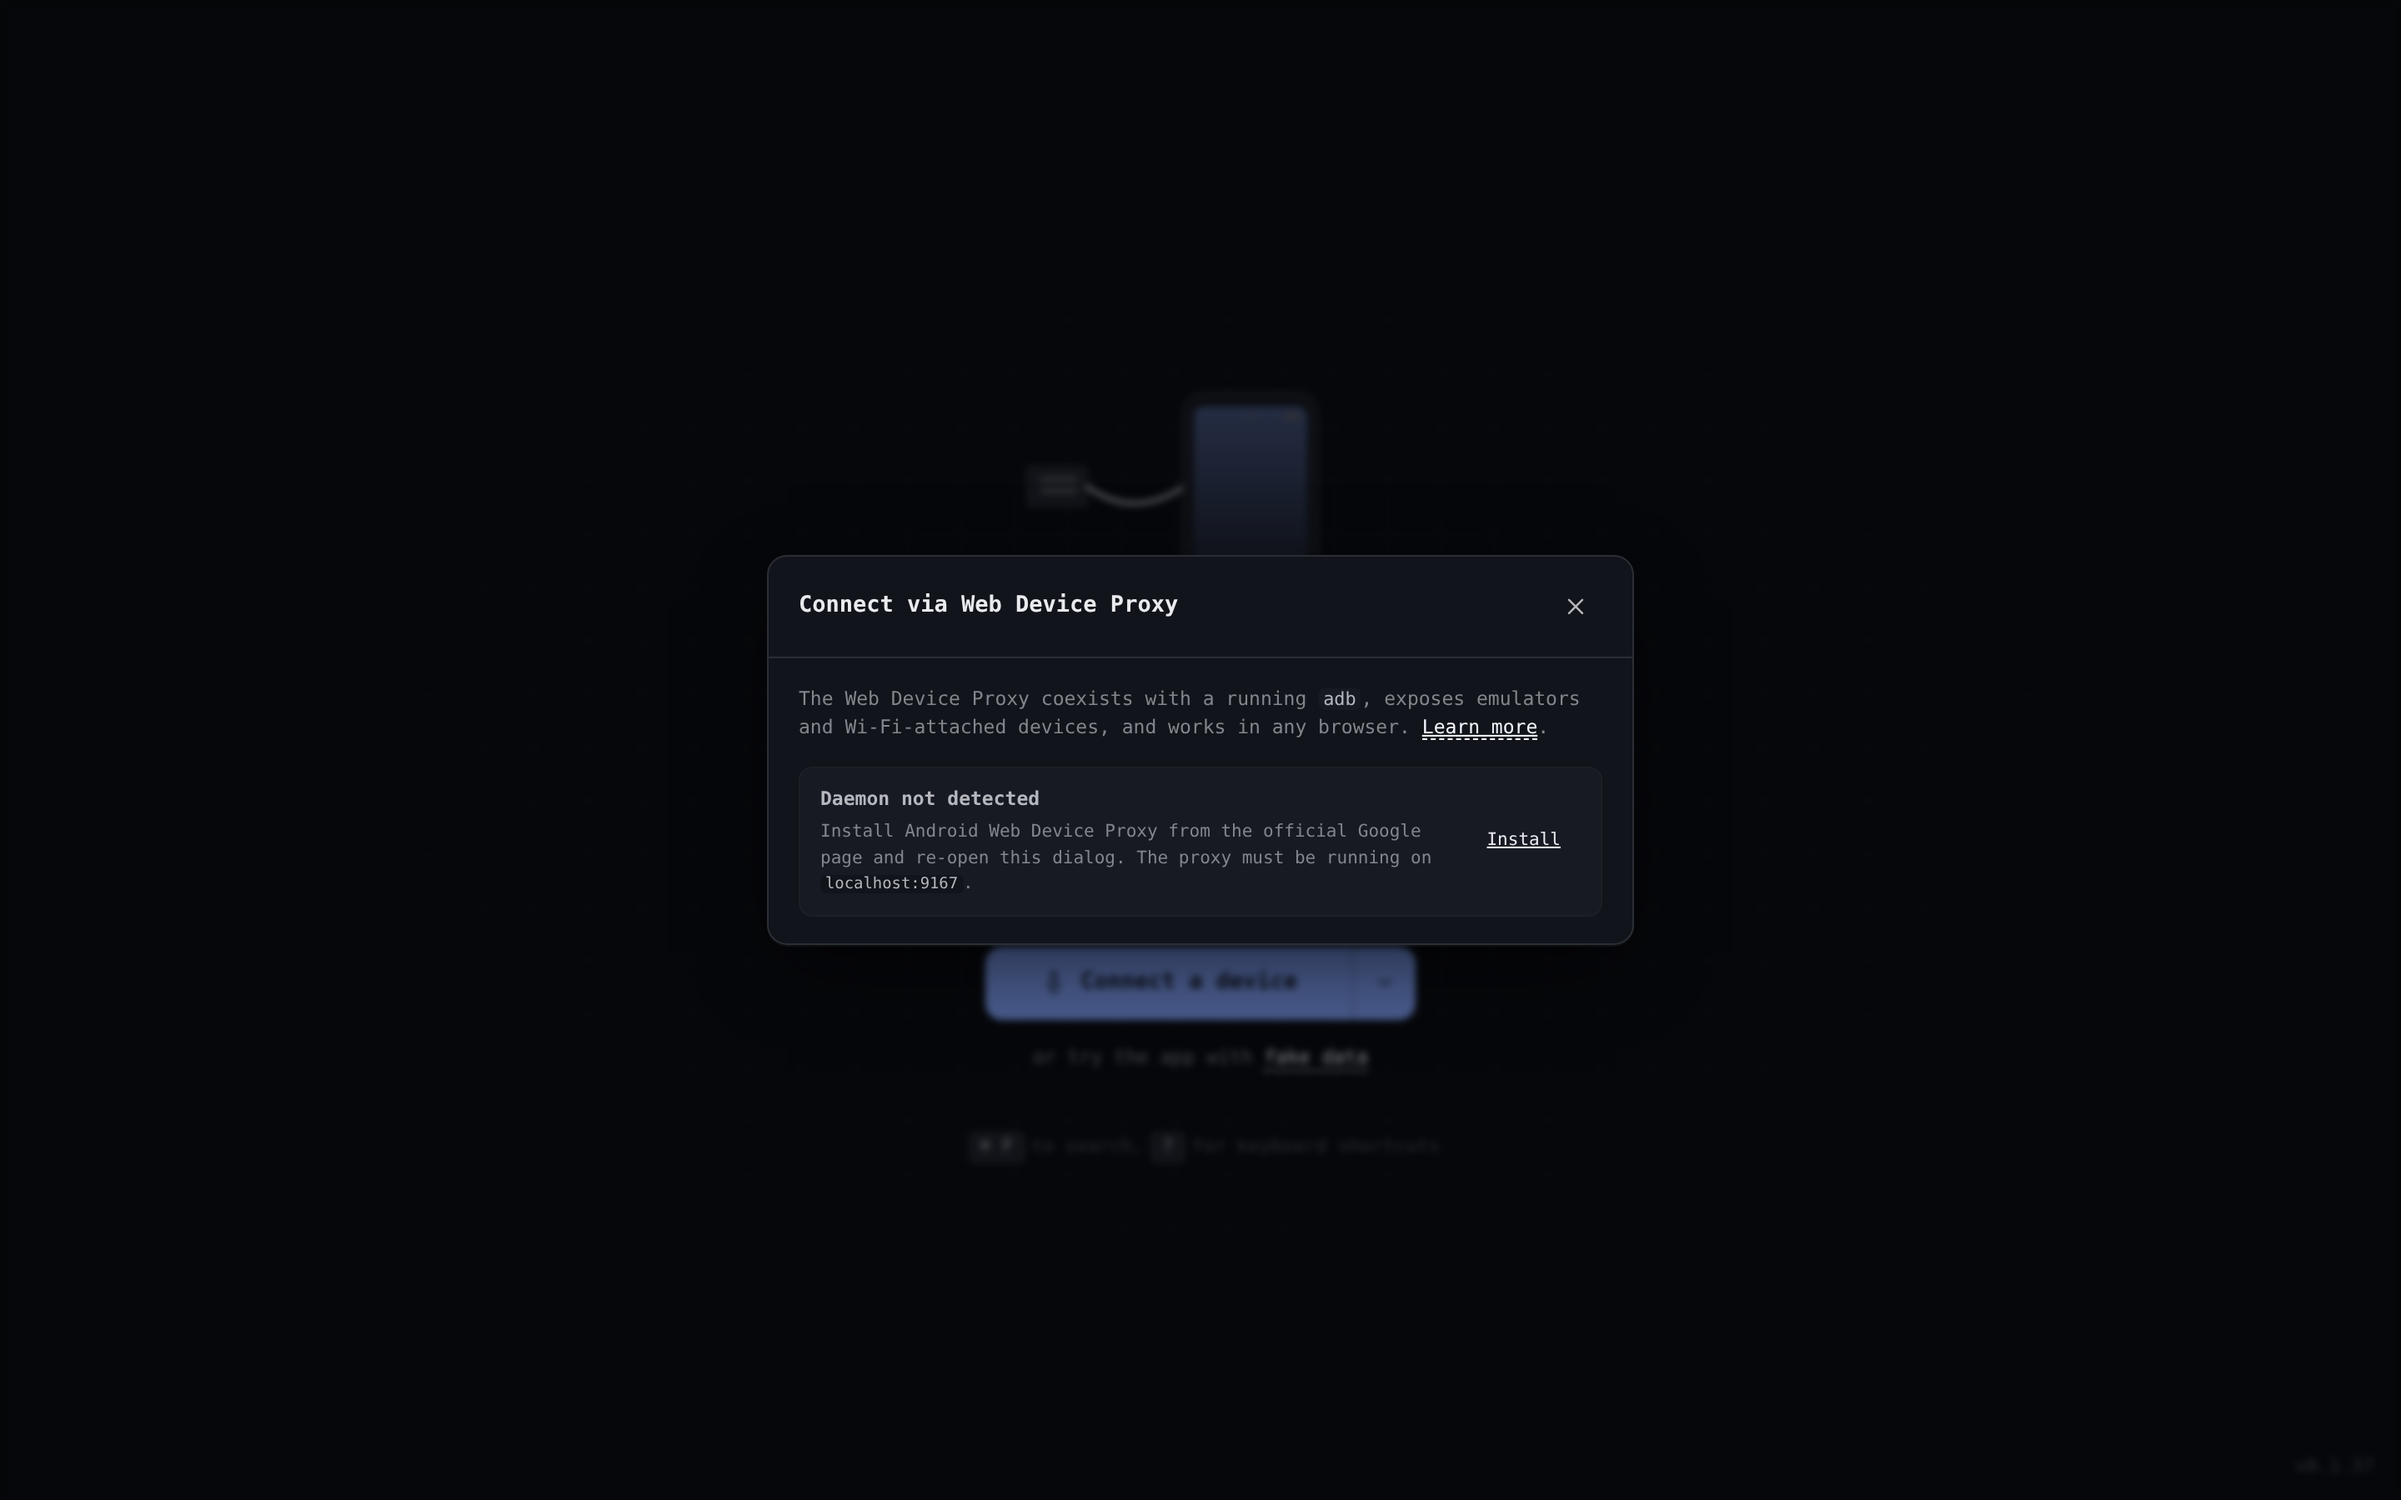
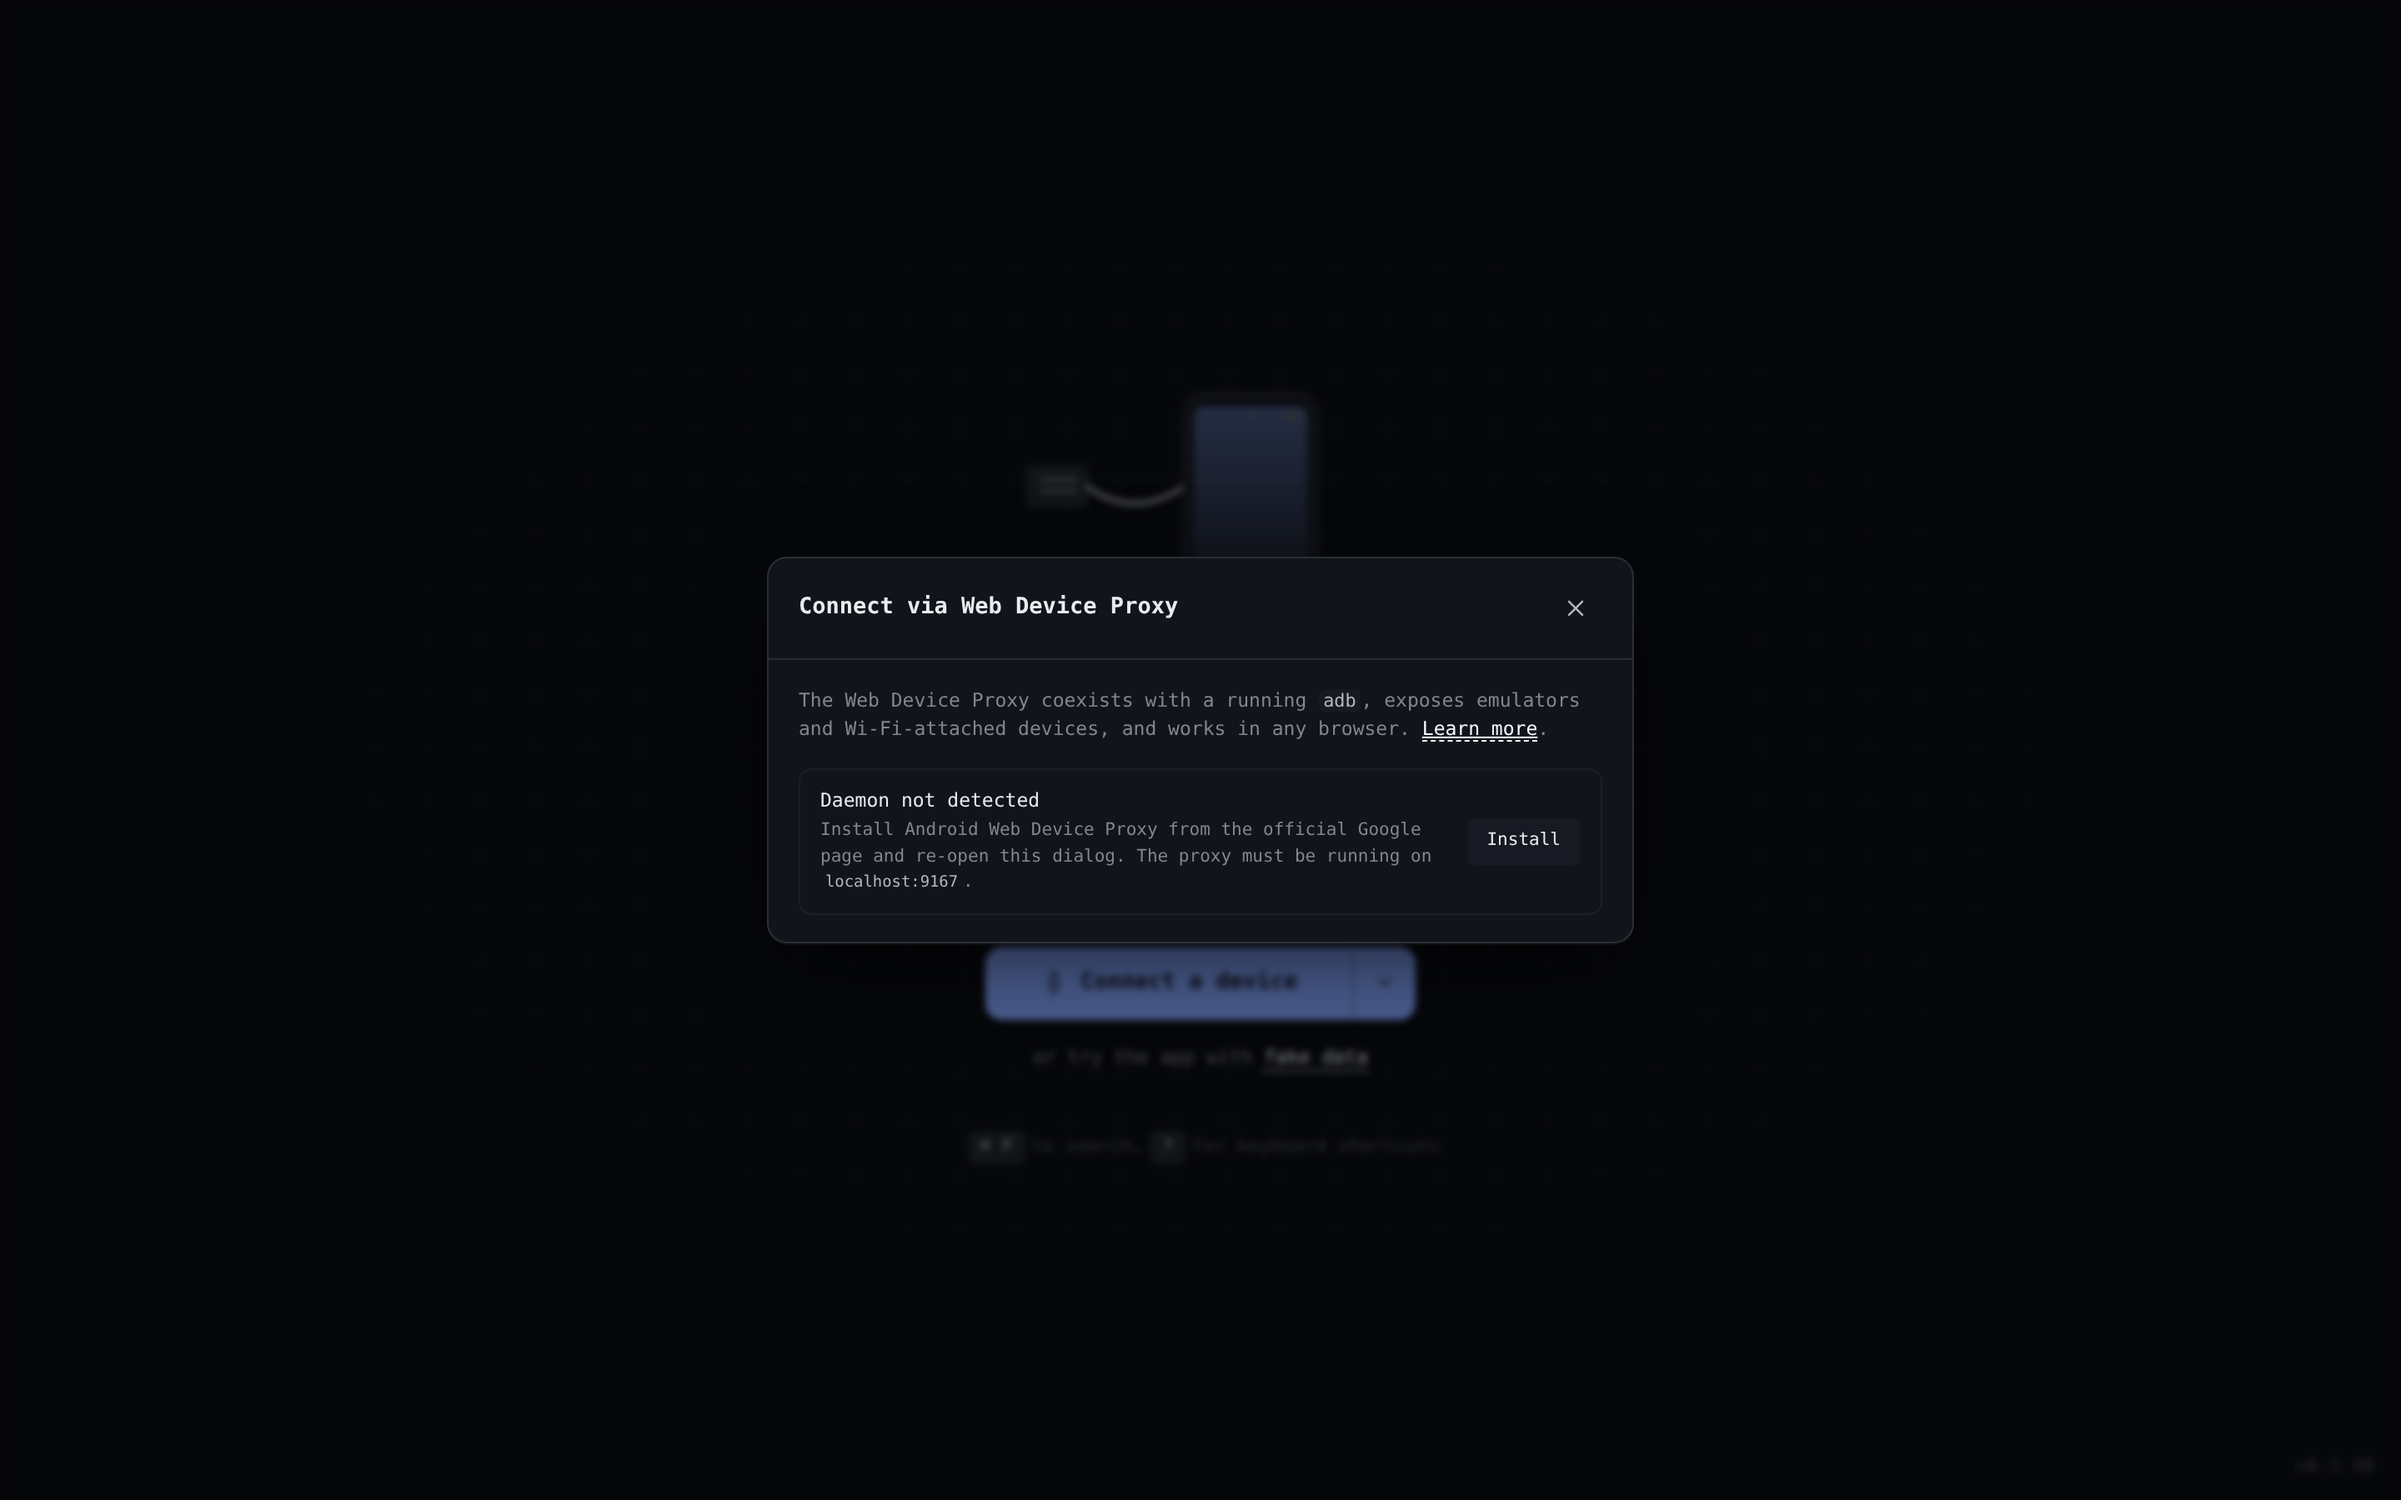
WDP dialog polish: device names, terser toast, Install button (#115)
Three follow-ups from real-device feedback:

1. **Device names show on the dialog list, not just the dashboard.**
   Some WDP daemon versions don't ship `ro.product.model` in the
   `/track-devices-json` snapshot's `adbProps`, so the row fell back
   to the bare serial. The dialog now fires a one-shot
   `shell:getprop ro.product.model` over a per-device /adb-json
   socket for any ADB-ready device missing the model, caches the
   response in component state, and re-renders. A new helper
   `lib/wdp/getProp.ts` owns the request/timeout/teardown so the
   service stream is closed immediately after the response arrives.

2. **`adb kill-server` toast trimmed + display time scaled.** The
   old WebUSB-claim message was ~250 chars and the toast auto-
   dismissed after 1800 ms — far too quick to read. The message is
   now `Device is already claimed. Try `adb kill-server` and
   reconnect.` (~60 chars), and `showToast` scales its lifetime with
   message length (70 ms/char, bounded 2.2–6 s) so longer errors stay
   long enough to read.

3. **Install button + empty card match the device-row family.** The
   empty card surface flips from `var(--bg-2)` to `var(--bg-1)` so
   it reads as the no-devices counterpart of a populated list, and
   the Install button (`.btn` at `var(--bg-2)`) now contrasts cleanly
   instead of disappearing into the same-colour container. The base
   `.btn` rule gains `text-decoration: none` so anchors styled as
[…]

Changed region(s): [[0.3438, 0.5289, 0.4375, 0.5911], [0.3438, 0.4667, 0.5, 0.4978], [0.5312, 0.4667, 0.6562, 0.4978]]

diff --git a/src/components/WdpDialog.tsx b/src/components/WdpDialog.tsx
@@ -18,6 +18,7 @@ import * as Icons from './Icons';
 import {
   WDP_DOWNLOAD_URL,
   WdpTracker,
+  fetchDeviceProp,
   openApprovePopup,
   wdpDeviceReady,
   wdpDeviceStatus,
@@ -51,6 +52,40 @@ export function WdpDialog({ open, onConnect, onClose, busy }: WdpDialogProps) {
   // once WDP flips PROXY_UNAUTHORIZED → ADB/DEVICE).
   const devicesRef = useRef<WdpDevice[]>([]);
   const approveResolveRef = useRef<((approved: boolean) => void) | null>(null);
+  // Lazy serial → model cache. Some WDP daemon versions don't ship
+  // `ro.product.model` in the snapshot's `adbProps`, so the row
+  // would fall through to the bare serial. For ADB-ready devices
+  // missing the model we fire a one-shot `getprop` over a /adb-json
+  // service stream and cache the result; rows re-render once the
+  // value arrives.
+  const [modelCache, setModelCache] = useState<Record<string, string>>({});
+  const inflightModelsRef = useRef<Set<string>>(new Set());
+
+  useEffect(() => {
+    if (state.kind !== 'connected') return;
+    const cancelled = { v: false };
+    for (const d of state.devices) {
+      if (d.proxyStatus !== 'ADB' || d.adbStatus !== 'DEVICE') continue;
+      if (d.adbProps?.['ro.product.model']) continue;
+      if (modelCache[d.serialNumber]) continue;
+      if (inflightModelsRef.current.has(d.serialNumber)) continue;
+      inflightModelsRef.current.add(d.serialNumber);
+      void fetchDeviceProp({
+        serialNumber: d.serialNumber,
+        key: 'ro.product.model',
+      })
+        .then((model) => {
+          if (cancelled.v || !model) return;
+          setModelCache((prev) => ({ ...prev, [d.serialNumber]: model }));
+        })
+        .finally(() => {
+          inflightModelsRef.current.delete(d.serialNumber);
+        });
+    }
+    return () => {
+      cancelled.v = true;
+    };
+  }, [state, modelCache]);
 
   useEffect(() => {
     if (!open) return;
@@ -244,8 +279,8 @@ export function WdpDialog({ open, onConnect, onClose, busy }: WdpDialogProps) {
                     return (
                       <li key={d.serialNumber} className="wdp-device">
                         <div className="wdp-device-meta">
-                          <div className="wdp-device-name" title={deviceLabel(d)}>
-                            {deviceLabel(d)}
+                          <div className="wdp-device-name" title={deviceLabel(d, modelCache)}>
+                            {deviceLabel(d, modelCache)}
                           </div>
                           <div className="wdp-device-sub" title={d.serialNumber}>
                             {d.serialNumber} · {wdpDeviceStatus(d)}
@@ -275,9 +310,14 @@ export function WdpDialog({ open, onConnect, onClose, busy }: WdpDialogProps) {
   );
 }
 
-function deviceLabel(d: WdpDevice): string {
+function deviceLabel(d: WdpDevice, cache: Record<string, string>): string {
   if (d.proxyStatus === 'ADB') {
-    return d.adbProps?.['ro.product.model'] ?? d.adbProps?.['ro.product.name'] ?? d.serialNumber;
+    return (
+      d.adbProps?.['ro.product.model'] ??
+      cache[d.serialNumber] ??
+      d.adbProps?.['ro.product.name'] ??
+      d.serialNumber
+    );
   }
   return d.serialNumber;
 }

diff --git a/src/lib/wdp/getProp.ts b/src/lib/wdp/getProp.ts
@@ -1,0 +1,71 @@
+// One-shot `getprop` over WDP for use in the discovery dialog.
+//
+// Opens a per-call `/adb-json` service stream against `shell:getprop
+// <key>` for a specific device serial, reads the device's response,
+// closes the socket, and returns the trimmed value. Used to fill in
+// the device-row name when the daemon's `/track-devices-json`
+// snapshot didn't include `ro.product.model` in `adbProps` (some
+// WDP daemon versions omit it).
+//
+// The function is independent of the per-device `WdpAdbTransport`
+// because the dialog doesn't have an open `Adb` session yet — the
+// devices haven't been connected to. The shell service stream is
+// closed immediately after the response arrives, so this doesn't
+// claim a long-lived resource on the device.
+
+import { openWdpAdbSocket } from './adbSocket';
+
+interface FetchPropOptions {
+  serialNumber: string;
+  key: string;
+  /** Soft cap for waiting on the response — devices that don't reply in time return null. */
+  timeoutMs?: number;
+}
+
+export async function fetchDeviceProp(opts: FetchPropOptions): Promise<string | null> {
+  const timeoutMs = opts.timeoutMs ?? 1500;
+  let socket: Awaited<ReturnType<typeof openWdpAdbSocket>> | null = null;
+  try {
+    socket = await openWdpAdbSocket({
+      serialNumber: opts.serialNumber,
+      service: `shell:getprop ${opts.key}`,
+    });
+  } catch {
+    return null;
+  }
+
+  const reader = socket.readable.getReader();
+  let buffer = '';
+  const decoder = new TextDecoder();
+
+  const settled = await Promise.race([
+    (async () => {
+      try {
+        while (true) {
+          const { done, value } = await reader.read();
+          if (done) return true;
+          if (value) buffer += decoder.decode(value, { stream: true });
+        }
+      } catch {
+        return false;
+      }
+    })(),
+    new Promise<false>((resolve) => window.setTimeout(() => resolve(false), timeoutMs)),
+  ]);
+
+  try {
+    await reader.cancel();
+  } catch {
+    /* ignore */
+  }
+  try {
+    socket.close();
+  } catch {
+    /* ignore */
+  }
+
+  if (!settled) return null;
+  const trimmed = buffer.trim();
+  if (!trimmed) return null;
+  return trimmed;
+}

diff --git a/src/styles/components.css b/src/styles/components.css
@@ -308,11 +308,15 @@
   padding: 8px 0;
 }
 .wdp-dialog-empty {
+  /* Same surface as `.wdp-device` rows so the empty card reads as the
+     no-devices counterpart of a populated list. The Install button
+     (`.btn` at `bg-2`) now contrasts cleanly against the `bg-1`
+     surface, matching Connect/Authorize on real device rows. */
   display: flex;
   align-items: center;
   gap: 12px;
   padding: 10px 12px;
-  background: var(--bg-2);
+  background: var(--bg-1);
   border: 1px solid var(--line-soft);
   border-radius: var(--r-md);
 }
@@ -321,14 +325,15 @@
   min-width: 0;
 }
 .wdp-dialog-install {
-  /* Anchor styled as a button — neutralise default underline + spacing. */
+  /* Anchor styled as a button — strip the UA underline. */
   text-decoration: none;
 }
 .wdp-dialog-empty-title {
+  /* Match `.wdp-device-name` so the row reads as part of the same family. */
   font-size: var(--t-sm);
-  font-weight: 600;
-  color: var(--fg-1);
-  margin-bottom: 4px;
+  font-weight: 500;
+  color: var(--fg-0);
+  margin-bottom: 2px;
 }
 .wdp-dialog-empty p,
 .wdp-dialog-approve p {

diff --git a/src/lib/adb.ts b/src/lib/adb.ts
@@ -189,11 +189,7 @@ export function friendlyConnectError(err: unknown): string {
     return 'Device disconnected. Replug the cable and try again.';
   }
   if (/claim.*interface|protected interface|already in use|device.*in use/i.test(raw)) {
-    return (
-      "Couldn't claim the USB interface — something else is already holding the device. " +
-      'If you have `adb` running (Android Studio, scrcpy, the Web Device Proxy daemon, …) try ' +
-      '`adb kill-server` and reconnect. On Windows replace the WinUSB driver if needed.'
-    );
+    return 'Device is already claimed. Try `adb kill-server` and reconnect.';
   }
   if (/WebUSB is not available/i.test(raw)) return raw; // already friendly
   return raw;

diff --git a/src/components/App.tsx b/src/components/App.tsx
@@ -82,7 +82,11 @@ export function App() {
 
   const showToast = useCallback((msg: string) => {
     setToast(msg);
-    window.setTimeout(() => setToast((t) => (t === msg ? null : t)), 1800);
+    // Display time scales with message length so longer errors stay
+    // long enough to read. Bounded to keep terse confirmations from
+    // sticking around forever.
+    const ms = Math.min(6000, Math.max(2200, msg.length * 70));
+    window.setTimeout(() => setToast((t) => (t === msg ? null : t)), ms);
   }, []);
 
   // ---- Streaming: simulator (real ADB stream is in `connectReal`) ---------

diff --git a/src/styles/tokens.css b/src/styles/tokens.css
@@ -216,6 +216,9 @@ input, textarea { font: inherit; color: inherit; }
   font-size: var(--t-base);
   background: var(--bg-2);
   color: var(--fg-0);
+  /* Anchors styled as buttons (e.g. the dialog's Install) shouldn't
+     keep the UA's `text-decoration: underline`. */
+  text-decoration: none;
   transition: background-color var(--dur-fast) var(--ease-out), transform var(--dur-fast) var(--ease-out), box-shadow var(--dur-fast) var(--ease-out);
 }
 .btn:hover { background: var(--bg-3); }

diff --git a/src/lib/wdp/index.ts b/src/lib/wdp/index.ts
@@ -8,3 +8,4 @@ export { WdpTracker, type WdpTrackerHandlers } from './trackDevices';
 export { openApprovePopup } from './popup';
 export { connectViaWdp, type WdpConnectOptions } from './connect';
 export { probeWdpReachable } from './probe';
+export { fetchDeviceProp } from './getProp';
